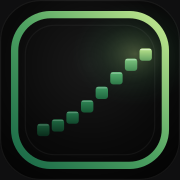
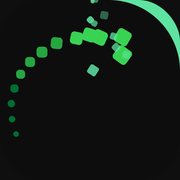
feat(brand): サービスアイコンを新ビジュアルに差し替え
ユーザー提供の新アイコン PNG (緑のコミット粒子がアーチ状に立ち上がる
モチーフ、黒背景) をブランド画像として採用。

- public/contribution-arc-icon.png を新ソースとして配置
- scripts/generate-pwa-icons.mjs を SVG → PNG ソース対応に変更し、
  sharp の density オプションを削除
- 全 PWA アイコン (icon-192 / icon-512 / icon-maskable-512 /
  apple-touch-icon) を新ソースから再生成
- index.html の favicon を /contribution-arc-icon.svg → /icon-192.png
  に切り替え (type も image/png に)

manifest.webmanifest はファイル名そのままで内容が差し変わるので、
PWA / ブラウザ側ともキャッシュ更新で新アイコンを拾う。

diff --git a/index.html b/index.html
@@ -19,7 +19,7 @@
       name="description"
       content="Contribution Arc is a learning and contribution record service for developers."
     />
-    <link rel="icon" type="image/svg+xml" href="/contribution-arc-icon.svg" />
+    <link rel="icon" type="image/png" href="/icon-192.png" />
     <link rel="apple-touch-icon" sizes="180x180" href="/apple-touch-icon.png" />
     <link rel="manifest" href="/manifest.webmanifest" />
     <meta name="apple-mobile-web-app-capable" content="yes" />
